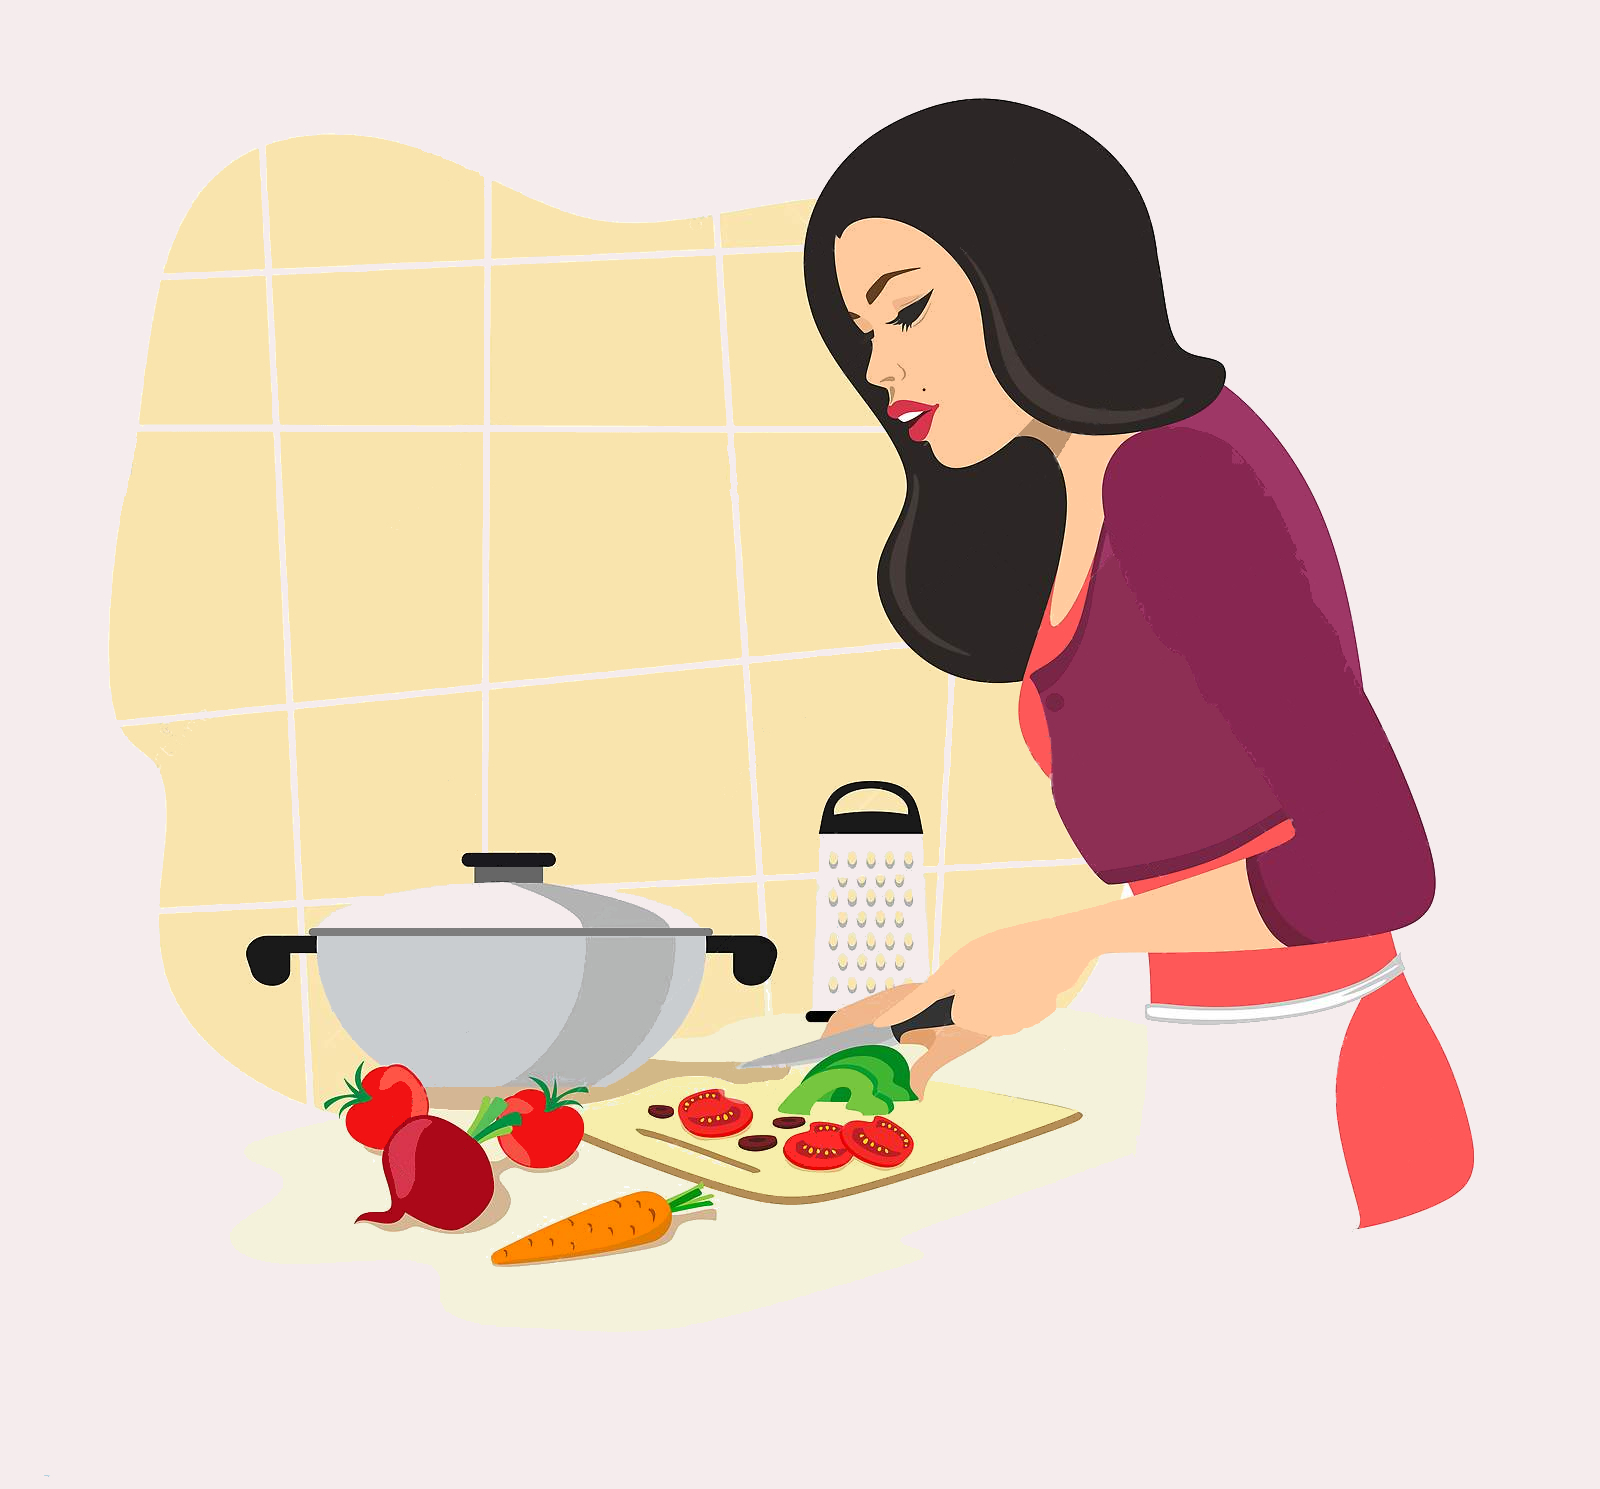
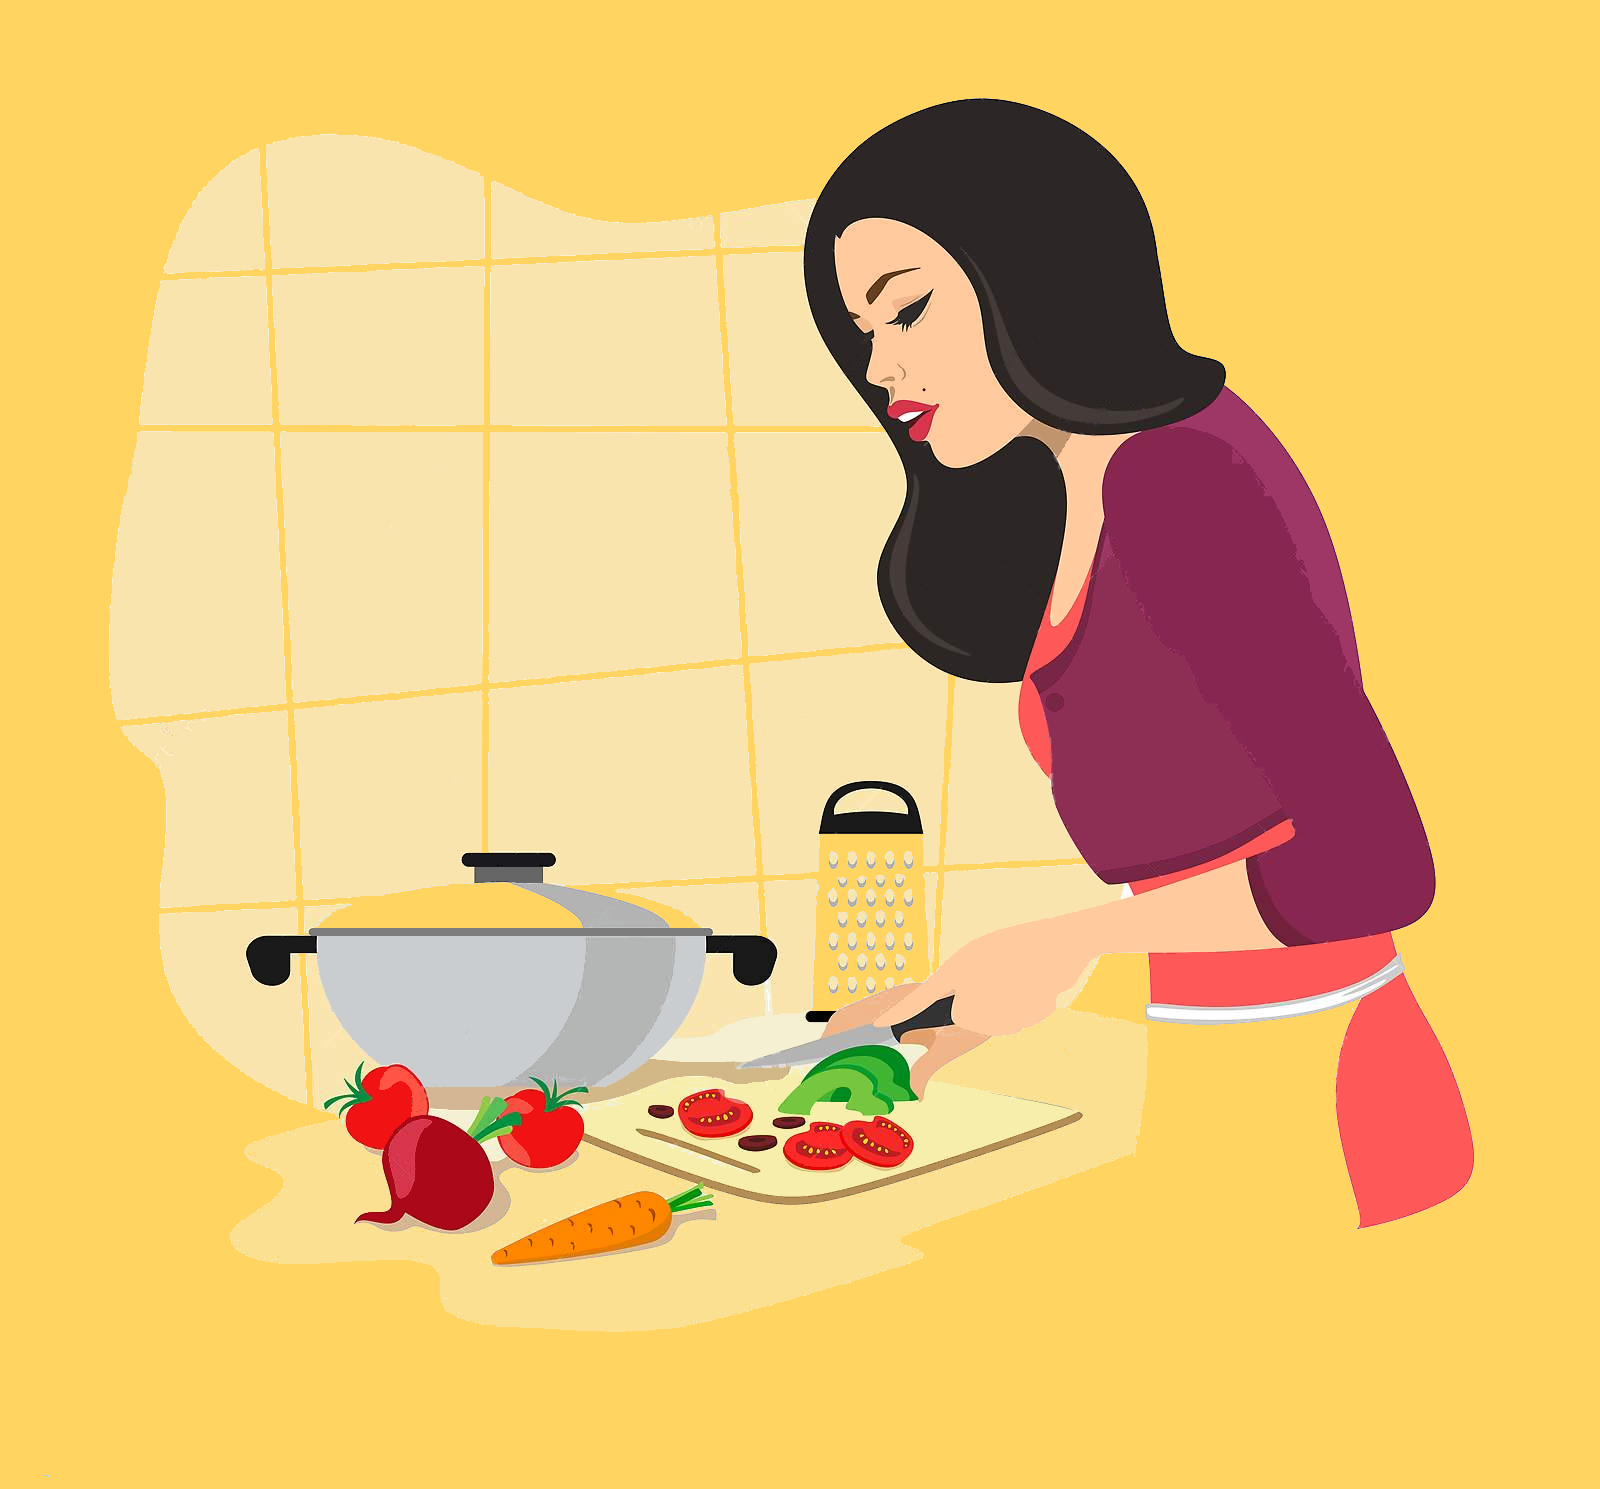
change main background color

diff --git a/src/views/main/main.css b/src/views/main/main.css
@@ -1,7 +1,7 @@
 .main-section {
   height: 100vh;
   overflow: hidden;
-  background-color: #f5eded;
+  background-color: #ffd460;
 }
 .shape-top-left {
   position: relative;
